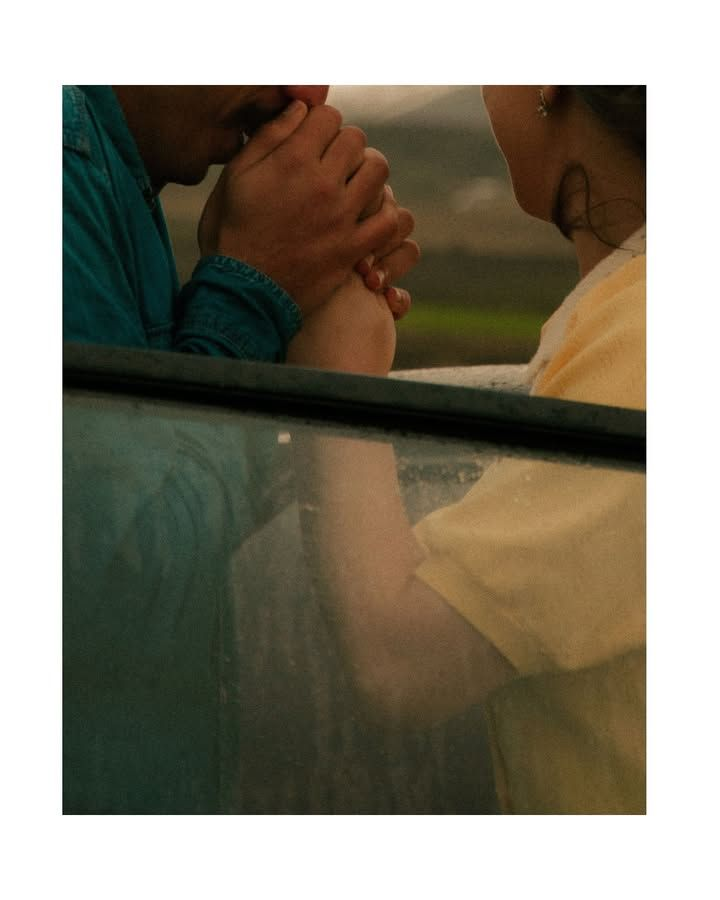
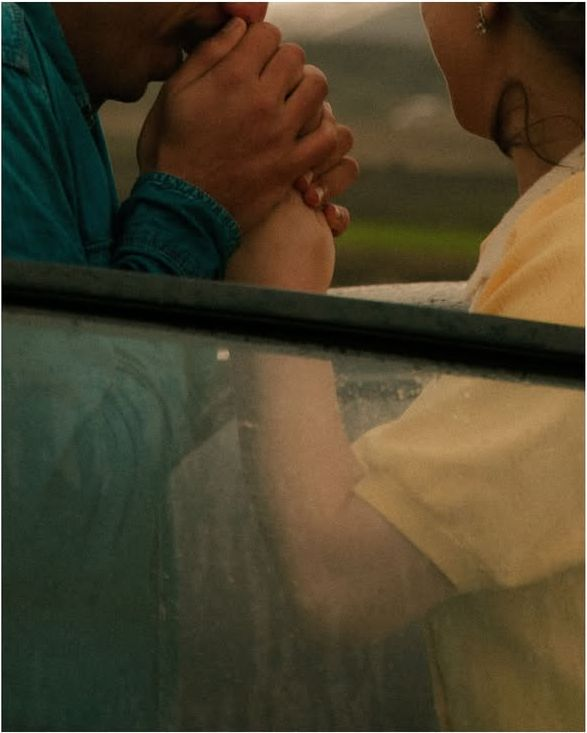
Fix hero/about layout balance, trim white-bordered photos, correct alt-text mismatches
- Hero and About: center text against the tall portrait photos and cap
  image height so the short copy block no longer leaves a large dead
  gap below it (found via live visual QA at 192.168.31.230:3000).
- copy-photos.mjs: trim the solid white matte baked into 4 single-panel
  source photos (love-21, love-22, portrait-04, portrait-05) via
  sharp .trim(), same pattern as the existing rotation fix. Left the
  intentional multi-panel "Коллаж" photos untouched since their white
  gutters are part of the design.
- data/photos.ts: update trimmed dimensions, add trimOnCopy, and fix
  3 alt-text bugs found during re-inspection (love-06 mentioned a
  greenhouse scene that isn't in the photo, love-22/love-24 alt text
  was swapped, love-27 mentioned a pomegranate that isn't in frame).

Claude-Session: https://claude.ai/code/session_01DekepS2dxbAnHcRYAZyWJv

diff --git a/data/photos.ts b/data/photos.ts
@@ -38,7 +38,7 @@ export const photos: Photo[] = [
   { slug: 'love-03', category: 'love-story', sourceFile: 'SnapInsta.to_657742216_18013061510836533_6707210603101989341_n.jpg', width: 873, height: 1164, alt: { ru: 'Чёрно-белые крупные объятия пары в библиотеке', en: 'Black-and-white close embrace of a couple in a library' } },
   { slug: 'love-04', category: 'love-story', sourceFile: 'SnapInsta.to_657947202_18013061543836533_2187226408794195441_n.jpg', width: 888, height: 1184, alt: { ru: 'Пара смеётся среди книжных полок, цветное фото', en: 'A couple laughing among bookshelves, color photo' } },
   { slug: 'love-05', category: 'love-story', sourceFile: 'SnapInsta.to_658068849_18013061534836533_8175537410738637423_n.jpg', width: 850, height: 1133, alt: { ru: 'Пара смеётся в библиотеке, тёплый свет', en: 'A couple laughing in a library, warm light' } },
-  { slug: 'love-06', category: 'love-story', sourceFile: 'SnapInsta.to_658571333_18013061513836533_777481571487651401_n.jpg', width: 720, height: 960, alt: { ru: 'Коллаж: пара в теплице в движении и объятия в библиотеке', en: 'Collage: a couple in motion in a greenhouse and an embrace in a library' } },
+  { slug: 'love-06', category: 'love-story', sourceFile: 'SnapInsta.to_658571333_18013061513836533_777481571487651401_n.jpg', width: 720, height: 960, alt: { ru: 'Коллаж: пара у книжных полок и чёрно-белые объятия в библиотеке', en: 'Collage: a couple by the bookshelves and a black-and-white embrace in the library' } },
   { slug: 'love-07', category: 'love-story', sourceFile: 'SnapInsta.to_658663462_18013061525836533_4579139848462131194_n.jpg', width: 850, height: 1133, alt: { ru: 'Чёрно-белое крепкое объятие пары', en: 'Black-and-white close embrace of a couple' } },
   { slug: 'love-08', category: 'love-story', sourceFile: 'SnapInsta.to_658781924_18013061552836533_3626260022621475761_n.jpg', width: 720, height: 960, alt: { ru: 'Чёрно-белая пара в проходе библиотеки среди книг', en: 'Black-and-white couple in a library aisle among books' } },
   { slug: 'love-09', category: 'love-story', sourceFile: 'SnapInsta.to_659768168_18013061486836533_23612251469581772_n.jpg', width: 720, height: 960, alt: { ru: 'Пара в библиотеке у зелёной лестницы, цветное фото', en: 'A couple in a library by a green ladder, color photo' } },
@@ -53,13 +53,13 @@ export const photos: Photo[] = [
   { slug: 'love-18', category: 'love-story', sourceFile: 'SnapInsta.to_683762691_18016284233836533_5115990997648937136_n.jpg', width: 720, height: 897, alt: { ru: 'Пара касается лбами в поле, пасмурное небо', en: 'A couple touching foreheads in a field, overcast sky' } },
   { slug: 'love-19', category: 'love-story', sourceFile: 'SnapInsta.to_683766249_18017189375836533_6540760078989453481_n.jpg', width: 720, height: 900, alt: { ru: 'Пара в оранжерее: мужчина держится за опору, женщина смеётся среди роз', en: 'A couple in a greenhouse: the man holds on to a support post, the woman laughs among the roses' } },
   { slug: 'love-20', category: 'love-story', sourceFile: 'SnapInsta.to_684111780_18016284194836533_6198651596713270895_n.jpg', width: 720, height: 900, alt: { ru: 'Пара касается носами в поле, пасмурное небо, цветное фото', en: 'A couple touching noses in a field, overcast sky, color photo' } },
-  { slug: 'love-21', category: 'love-story', sourceFile: 'SnapInsta.to_684843279_18016284212836533_4094334937703427035_n.jpg', width: 720, height: 900, alt: { ru: 'Сцепленные руки пары через окно машины под дождём', en: "A couple's clasped hands through a rain-streaked car window" } },
-  { slug: 'love-22', category: 'love-story', sourceFile: 'SnapInsta.to_684855309_18017189345836533_2113241894251156481_n.jpg', width: 720, height: 900, alt: { ru: 'Коллаж: отдых среди роз, деталь книги, поцелуй в листве', en: 'Collage: resting among roses, a book detail, a kiss in the leaves' } },
+  { slug: 'love-21', category: 'love-story', sourceFile: 'SnapInsta.to_684843279_18016284212836533_4094334937703427035_n.jpg', width: 587, height: 733, alt: { ru: 'Сцепленные руки пары через окно машины под дождём', en: "A couple's clasped hands through a rain-streaked car window" } },
+  { slug: 'love-22', category: 'love-story', sourceFile: 'SnapInsta.to_684855309_18017189345836533_2113241894251156481_n.jpg', width: 589, height: 588, alt: { ru: 'Деталь: жемчужное колье среди розовых кустов', en: 'Detail: a pearl necklace among rose bushes' } },
   { slug: 'love-23', category: 'love-story', sourceFile: 'SnapInsta.to_684946431_18017189402836533_4573255447170964092_n.jpg', width: 720, height: 900, alt: { ru: 'Чёрно-белое фото пары в теплице', en: 'Black-and-white photo of a couple in a greenhouse' } },
-  { slug: 'love-24', category: 'love-story', sourceFile: 'SnapInsta.to_685386164_18017189405836533_175695731233902322_n.jpg', width: 720, height: 900, alt: { ru: 'Коллаж: девушка одна среди роз, деталь книги и объятия пары в теплице', en: 'Collage: a woman alone among roses, a book detail, and a couple embracing in the greenhouse' } },
+  { slug: 'love-24', category: 'love-story', sourceFile: 'SnapInsta.to_685386164_18017189405836533_175695731233902322_n.jpg', width: 720, height: 900, alt: { ru: 'Коллаж: отдых среди роз, деталь книги, поцелуй в листве', en: 'Collage: resting among roses, a book detail, a kiss in the leaves' } },
   { slug: 'love-25', category: 'love-story', sourceFile: 'SnapInsta.to_685956641_18017189429836533_2687868010405871520_n.jpg', width: 720, height: 900, alt: { ru: 'Пара в теплице: мужчина целует девушку в красном платье и меховой накидке среди роз', en: 'A couple in the greenhouse: a man kisses a woman in a red dress and fur wrap among roses' } },
   { slug: 'love-26', category: 'love-story', sourceFile: 'SnapInsta.to_687050582_18017189348836533_46706258812802475_n.jpg', width: 720, height: 900, alt: { ru: 'Коллаж: девушка одна среди роз и вид вдоль ряда теплицы', en: 'Collage: a woman alone among roses and a view down the greenhouse row' } },
-  { slug: 'love-27', category: 'love-story', sourceFile: 'SnapInsta.to_687284927_18017189387836533_3293444089339232783_n.jpg', width: 720, height: 900, alt: { ru: 'Коллаж: пара с розой и гранатом среди зелени, романтичный кадр', en: 'Collage: a couple with a rose and pomegranate among greenery, a romantic frame' } },
+  { slug: 'love-27', category: 'love-story', sourceFile: 'SnapInsta.to_687284927_18017189387836533_3293444089339232783_n.jpg', width: 720, height: 900, alt: { ru: 'Коллаж: пара с розой в теплице, романтичный поцелуй', en: 'Collage: a couple with a rose in the greenhouse, a romantic kiss' } },
   { slug: 'love-28', category: 'love-story', sourceFile: 'SnapInsta.to_688888300_18017189414836533_4901679097801555144_n.jpg', width: 720, height: 900, alt: { ru: 'Чёрно-белый нежный кадр двух силуэтов среди тёмной зелени', en: 'Black-and-white tender frame of two silhouettes among dark greenery' } },
   { slug: 'love-29', category: 'love-story', sourceFile: 'SnapInsta.to_683894650_18016284197836533_7423984466739593885_n.jpg', width: 720, height: 900, alt: { ru: 'Коллаж: пара пьёт колу в машине, цветной и чёрно-белый кадр', en: 'Collage: a couple drinking Coca-Cola in a car, a color and a black-and-white frame' } },
   { slug: 'love-30', category: 'love-story', sourceFile: 'SnapInsta.to_688833219_18017189330836533_4736488998158937883_n.jpg', width: 720, height: 900, alt: { ru: 'Деталь: спина девушки с красной лямкой платья и жемчужным колье среди роз', en: "Detail: a woman's back with a red dress strap and a pearl necklace among roses" } },
@@ -70,8 +70,8 @@ export const photos: Photo[] = [
   { slug: 'portrait-01', category: 'portrait', sourceFile: 'SnapInsta.to_657360749_18013061471836533_807684231671720313_n.jpg', width: 850, height: 1133, alt: { ru: 'Крупный план рук, листающих старую книгу, тёплый свет', en: 'Close-up of hands turning pages of an old book, warm light' } },
   { slug: 'portrait-02', category: 'portrait', sourceFile: 'SnapInsta.to_681180916_18016284176836533_1248926197350596796_n.jpg', width: 900, height: 720, alt: { ru: 'Мужчина крупным планом, на фоне размыто — женщина у автомобиля в горах', en: 'Close-up of a man, with a woman by a car in the mountains blurred in the background' } },
   { slug: 'portrait-03', category: 'portrait', sourceFile: 'SnapInsta.to_749756064_18027194900836533_4093777991618701705_n.jpg', width: 720, height: 960, alt: { ru: 'Коллаж: мужчина у стены в тёплом свете, блик радуги, деталь наручных часов, на ступенях', en: 'Collage: a man by a wall in warm light, a rainbow flare, a wristwatch detail, on the steps' } },
-  { slug: 'portrait-04', category: 'portrait', sourceFile: 'SnapInsta.to_750086049_18027194873836533_6795609942903314071_n.jpg', width: 720, height: 960, alt: { ru: 'Мужчина у туфовой стены с оконными проёмами', en: 'A man by a tuff-stone wall with window openings' } },
-  { slug: 'portrait-05', category: 'portrait', sourceFile: 'SnapInsta.to_750255781_18027195026836533_7800854702609093709_n.jpg', width: 720, height: 960, alt: { ru: 'Мужчина на лестнице заброшенной постройки среди зелени', en: 'A man on the stairs of an abandoned structure among greenery' } },
+  { slug: 'portrait-04', category: 'portrait', sourceFile: 'SnapInsta.to_750086049_18027194873836533_6795609942903314071_n.jpg', width: 691, height: 462, alt: { ru: 'Мужчина у туфовой стены с оконными проёмами', en: 'A man by a tuff-stone wall with window openings' } },
+  { slug: 'portrait-05', category: 'portrait', sourceFile: 'SnapInsta.to_750255781_18027195026836533_7800854702609093709_n.jpg', width: 476, height: 713, alt: { ru: 'Мужчина на лестнице заброшенной постройки среди зелени', en: 'A man on the stairs of an abandoned structure among greenery' } },
   { slug: 'portrait-06', category: 'portrait', sourceFile: 'SnapInsta.to_750828779_18027194870836533_6194109473403876595_n.jpg', width: 720, height: 960, alt: { ru: 'Фасад церкви в Гюмри с фигурой вдалеке', en: 'A church façade in Gyumri with a figure in the distance' } },
   { slug: 'portrait-07', category: 'portrait', sourceFile: 'SnapInsta.to_752451353_18027194897836533_5579632822793879720_n.jpg', width: 720, height: 960, alt: { ru: 'Коллаж: портрет мужчины у стены с чашкой кофе, тёплый свет', en: 'Collage: portrait of a man by a wall with a coffee cup, warm light' } },
   { slug: 'portrait-08', category: 'portrait', sourceFile: 'SnapInsta.to_753093095_18027194978836533_8226840323895672037_n.jpg', width: 960, height: 720, alt: { ru: 'Чёрно-белый кадр арочного дверного портала', en: 'Black-and-white shot of an arched doorway portal' } },
@@ -111,3 +111,12 @@ export const rotateOnCopy: Record<string, number> = {
   'portrait-02': 90,
   'portrait-08': 90,
 };
+
+/**
+ * These 4 source files are single (non-collage) photos with a solid white
+ * matte baked in around the frame (an Instagram export artifact, not an
+ * intentional collage border like the multi-panel "Коллаж" photos have).
+ * copy-photos.mjs trims it off when copying into public/. Trimmed pixel
+ * dimensions are recorded directly on each Photo entry above.
+ */
+export const trimOnCopy = new Set(['love-21', 'love-22', 'portrait-04', 'portrait-05']);

diff --git a/components/sections/About.tsx b/components/sections/About.tsx
@@ -8,7 +8,7 @@ export function About({ locale }: { locale: Locale }) {
   const c = content[locale];
 
   return (
-    <section id="about" className="grid gap-8 px-6 py-16 md:grid-cols-2 md:items-start md:py-24">
+    <section id="about" className="grid gap-8 px-6 py-16 md:grid-cols-2 md:items-center md:py-24">
       <HudFrame label={locale === 'ru' ? 'ПОРТРЕТ АВТОРА' : 'PHOTOGRAPHER'} className="order-2 md:order-1">
         <RevealImage
           src="/photos/about/about-irina.jpg"
@@ -16,6 +16,7 @@ export function About({ locale }: { locale: Locale }) {
           width={aboutPhoto.width}
           height={aboutPhoto.height}
           sizes="(min-width: 768px) 50vw, 100vw"
+          className="md:h-[560px] lg:h-[600px]"
         />
       </HudFrame>
       <div className="order-1 md:order-2">

diff --git a/components/sections/Hero.tsx b/components/sections/Hero.tsx
@@ -10,7 +10,7 @@ export function Hero({ locale }: { locale: Locale }) {
   const base = locale === 'ru' ? '' : '/en';
 
   return (
-    <section className="grid gap-8 px-6 py-16 md:grid-cols-2 md:items-start md:py-24">
+    <section className="grid gap-8 px-6 py-16 md:grid-cols-2 md:items-center md:py-24">
       <div>
         <p className="font-mono text-xs uppercase tracking-wider text-wine">{c.hero.kicker}</p>
         <SplitHeading as="h1" className="mt-4 font-display text-5xl leading-tight md:text-6xl">
@@ -32,6 +32,7 @@ export function Hero({ locale }: { locale: Locale }) {
           height={heroPhoto.height}
           priority
           sizes="(min-width: 768px) 50vw, 100vw"
+          className="md:h-[640px] lg:h-[720px]"
         />
       </HudFrame>
     </section>
